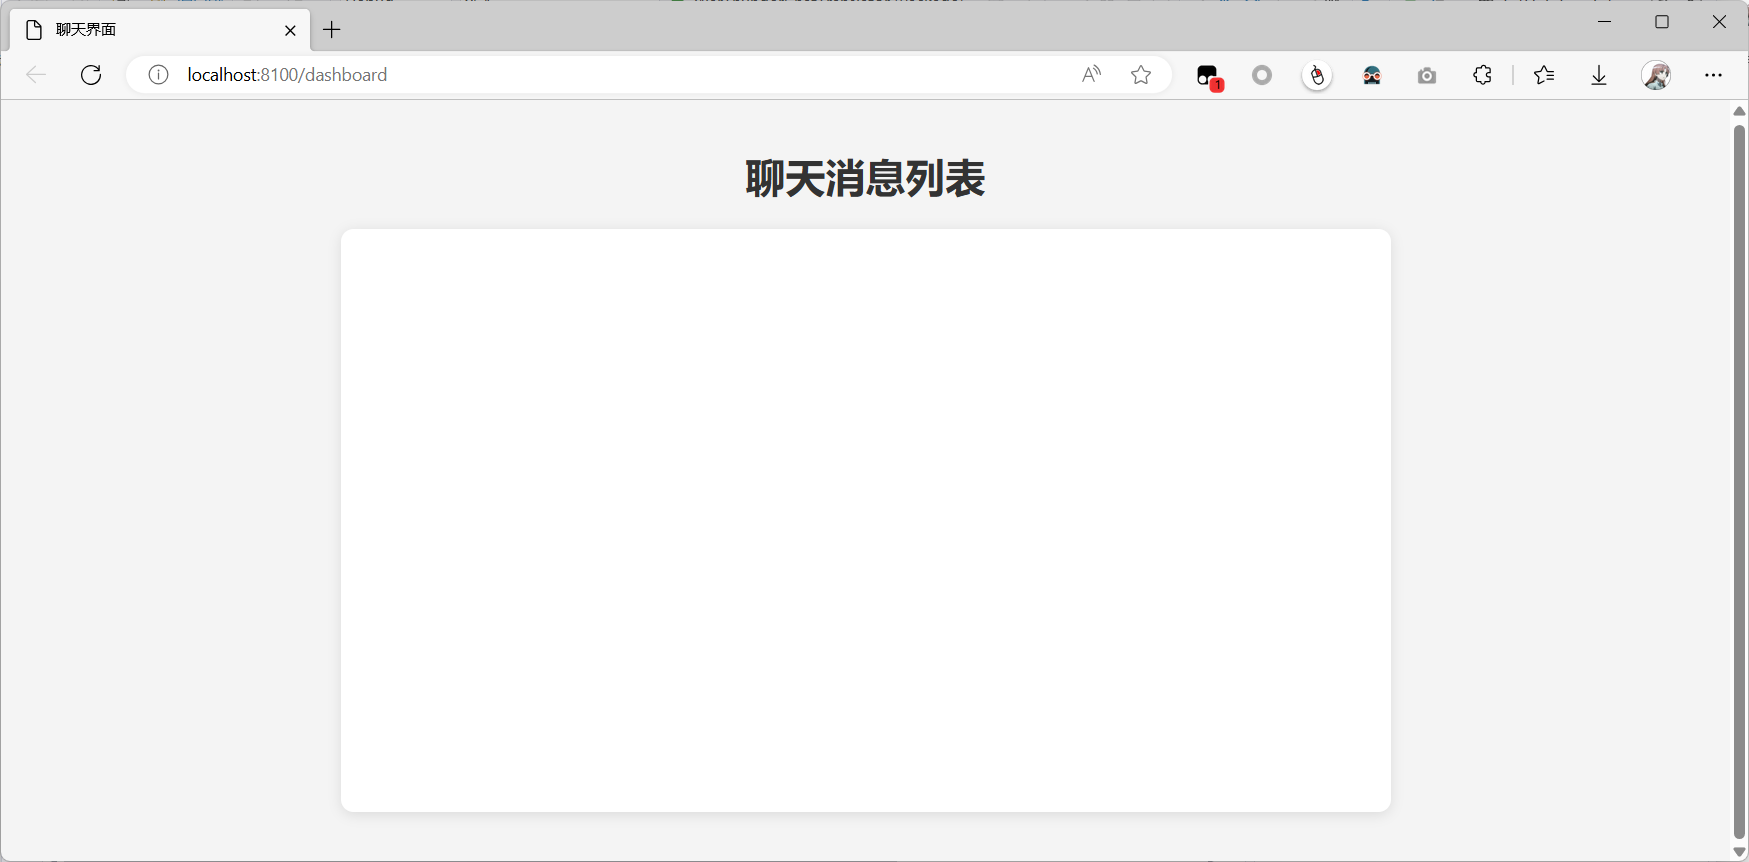
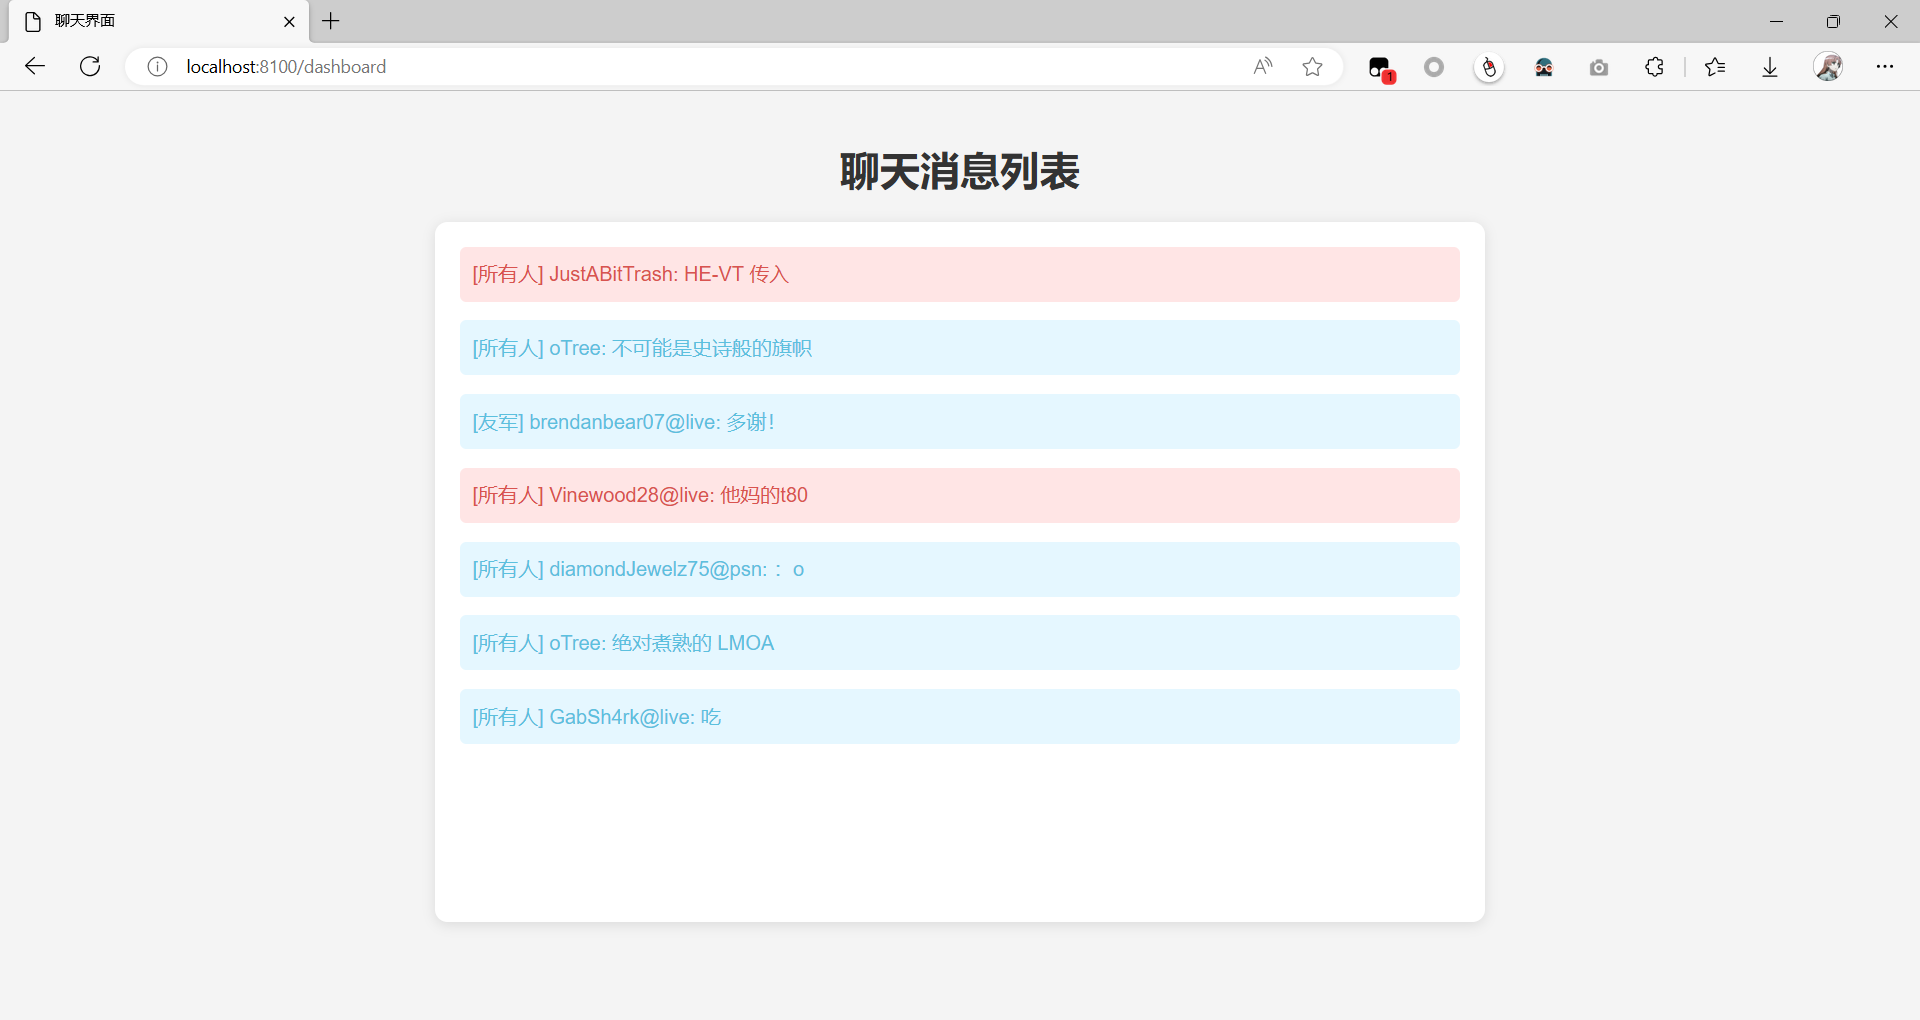
update README.md

Changed region(s): [[0.2161, 0.1508, 0.7719, 0.7541], [0.0, 0.0, 1.0, 0.1206], [0.0, 0.1206, 1.0, 1.0]]

diff --git a/WarThunderChatTranslator/App.xaml.cs b/WarThunderChatTranslator/App.xaml.cs
@@ -410,6 +410,8 @@ namespace WarThunderChatTranslator
 
         static string COLOR_PATTERN = @"<color(.*?)>(.*?)<\/color>";
 
+        static int currentPort = 8111; // 初始端口为 8111
+
         private async Task HandleRequests()
         {
             while (_httpListener.IsListening)
@@ -425,9 +427,29 @@ namespace WarThunderChatTranslator
                         // 获取请求参数lastId
                         string lastId = request.QueryString["lastId"] ?? "0";
 
-                        // 转发请求到 http://127.0.0.1:8111/gamechat?lastId=
-                        string targetUrl = $"http://127.0.0.1:8111/gamechat?lastId={lastId}";
-                        string responseData = await ForwardRequestAsync(targetUrl);
+                        string targetUrl = $"http://127.0.0.1:{currentPort}/gamechat?lastId={lastId}";
+                        string responseData;
+
+                        try
+                        {
+                            // 尝试请求当前端口
+                            responseData = await ForwardRequestAsync(targetUrl);
+                        }
+                        catch (Exception)
+                        {
+                            if (currentPort == 8111)
+                            {
+                                // 如果当前端口是 8111，尝试切换到 9222
+                                currentPort = 9222;
+                                targetUrl = $"http://127.0.0.1:{currentPort}/gamechat?lastId={lastId}";
+                                responseData = await ForwardRequestAsync(targetUrl);
+                            }
+                            else
+                            {
+                                // 如果当前端口是 9222，且请求失败，抛出异常
+                                throw;
+                            }
+                        }
 
                         // 处理返回的数据
                         var chatMessages = JsonConvert.DeserializeObject<List<WarThunderChatTranslator.Entities.ChatMessage>>(responseData);
@@ -450,7 +472,7 @@ namespace WarThunderChatTranslator
                                 try
                                 {
                                     message.Msg = Regex.Replace(message.Msg, COLOR_PATTERN, match => match.Groups[2].Value);
-                                    
+
                                     var translationResult = await TranslationHelper.TranslateAsync(message.Msg);
                                     var translatedMsg = translationResult.Translation;
 
@@ -530,7 +552,7 @@ namespace WarThunderChatTranslator
                     }
                     catch (Exception ex)
                     {
-
+                        // 忽略关闭流时的异常
                     }
                 }
             }

diff --git a/README.md b/README.md
@@ -2,6 +2,8 @@
 
 打雷的时候看不懂对面在讲什么飞机？这里可以实时翻译聊天对话！目前支持选择Yandex，微软或google翻译接口。
 
+微软生草机belike：
+
 ![](doc/1.png)
 
 ![](doc/2.png)
@@ -17,4 +19,5 @@
 - [ ] 实现界面自定义
 - [ ] 支持Bing Token
 - [ ] 实现游戏内覆盖
+- [ ] 实现GPT或DeepL等AI翻译（？）
 - [ ] 实现自定义翻译接口（？）
